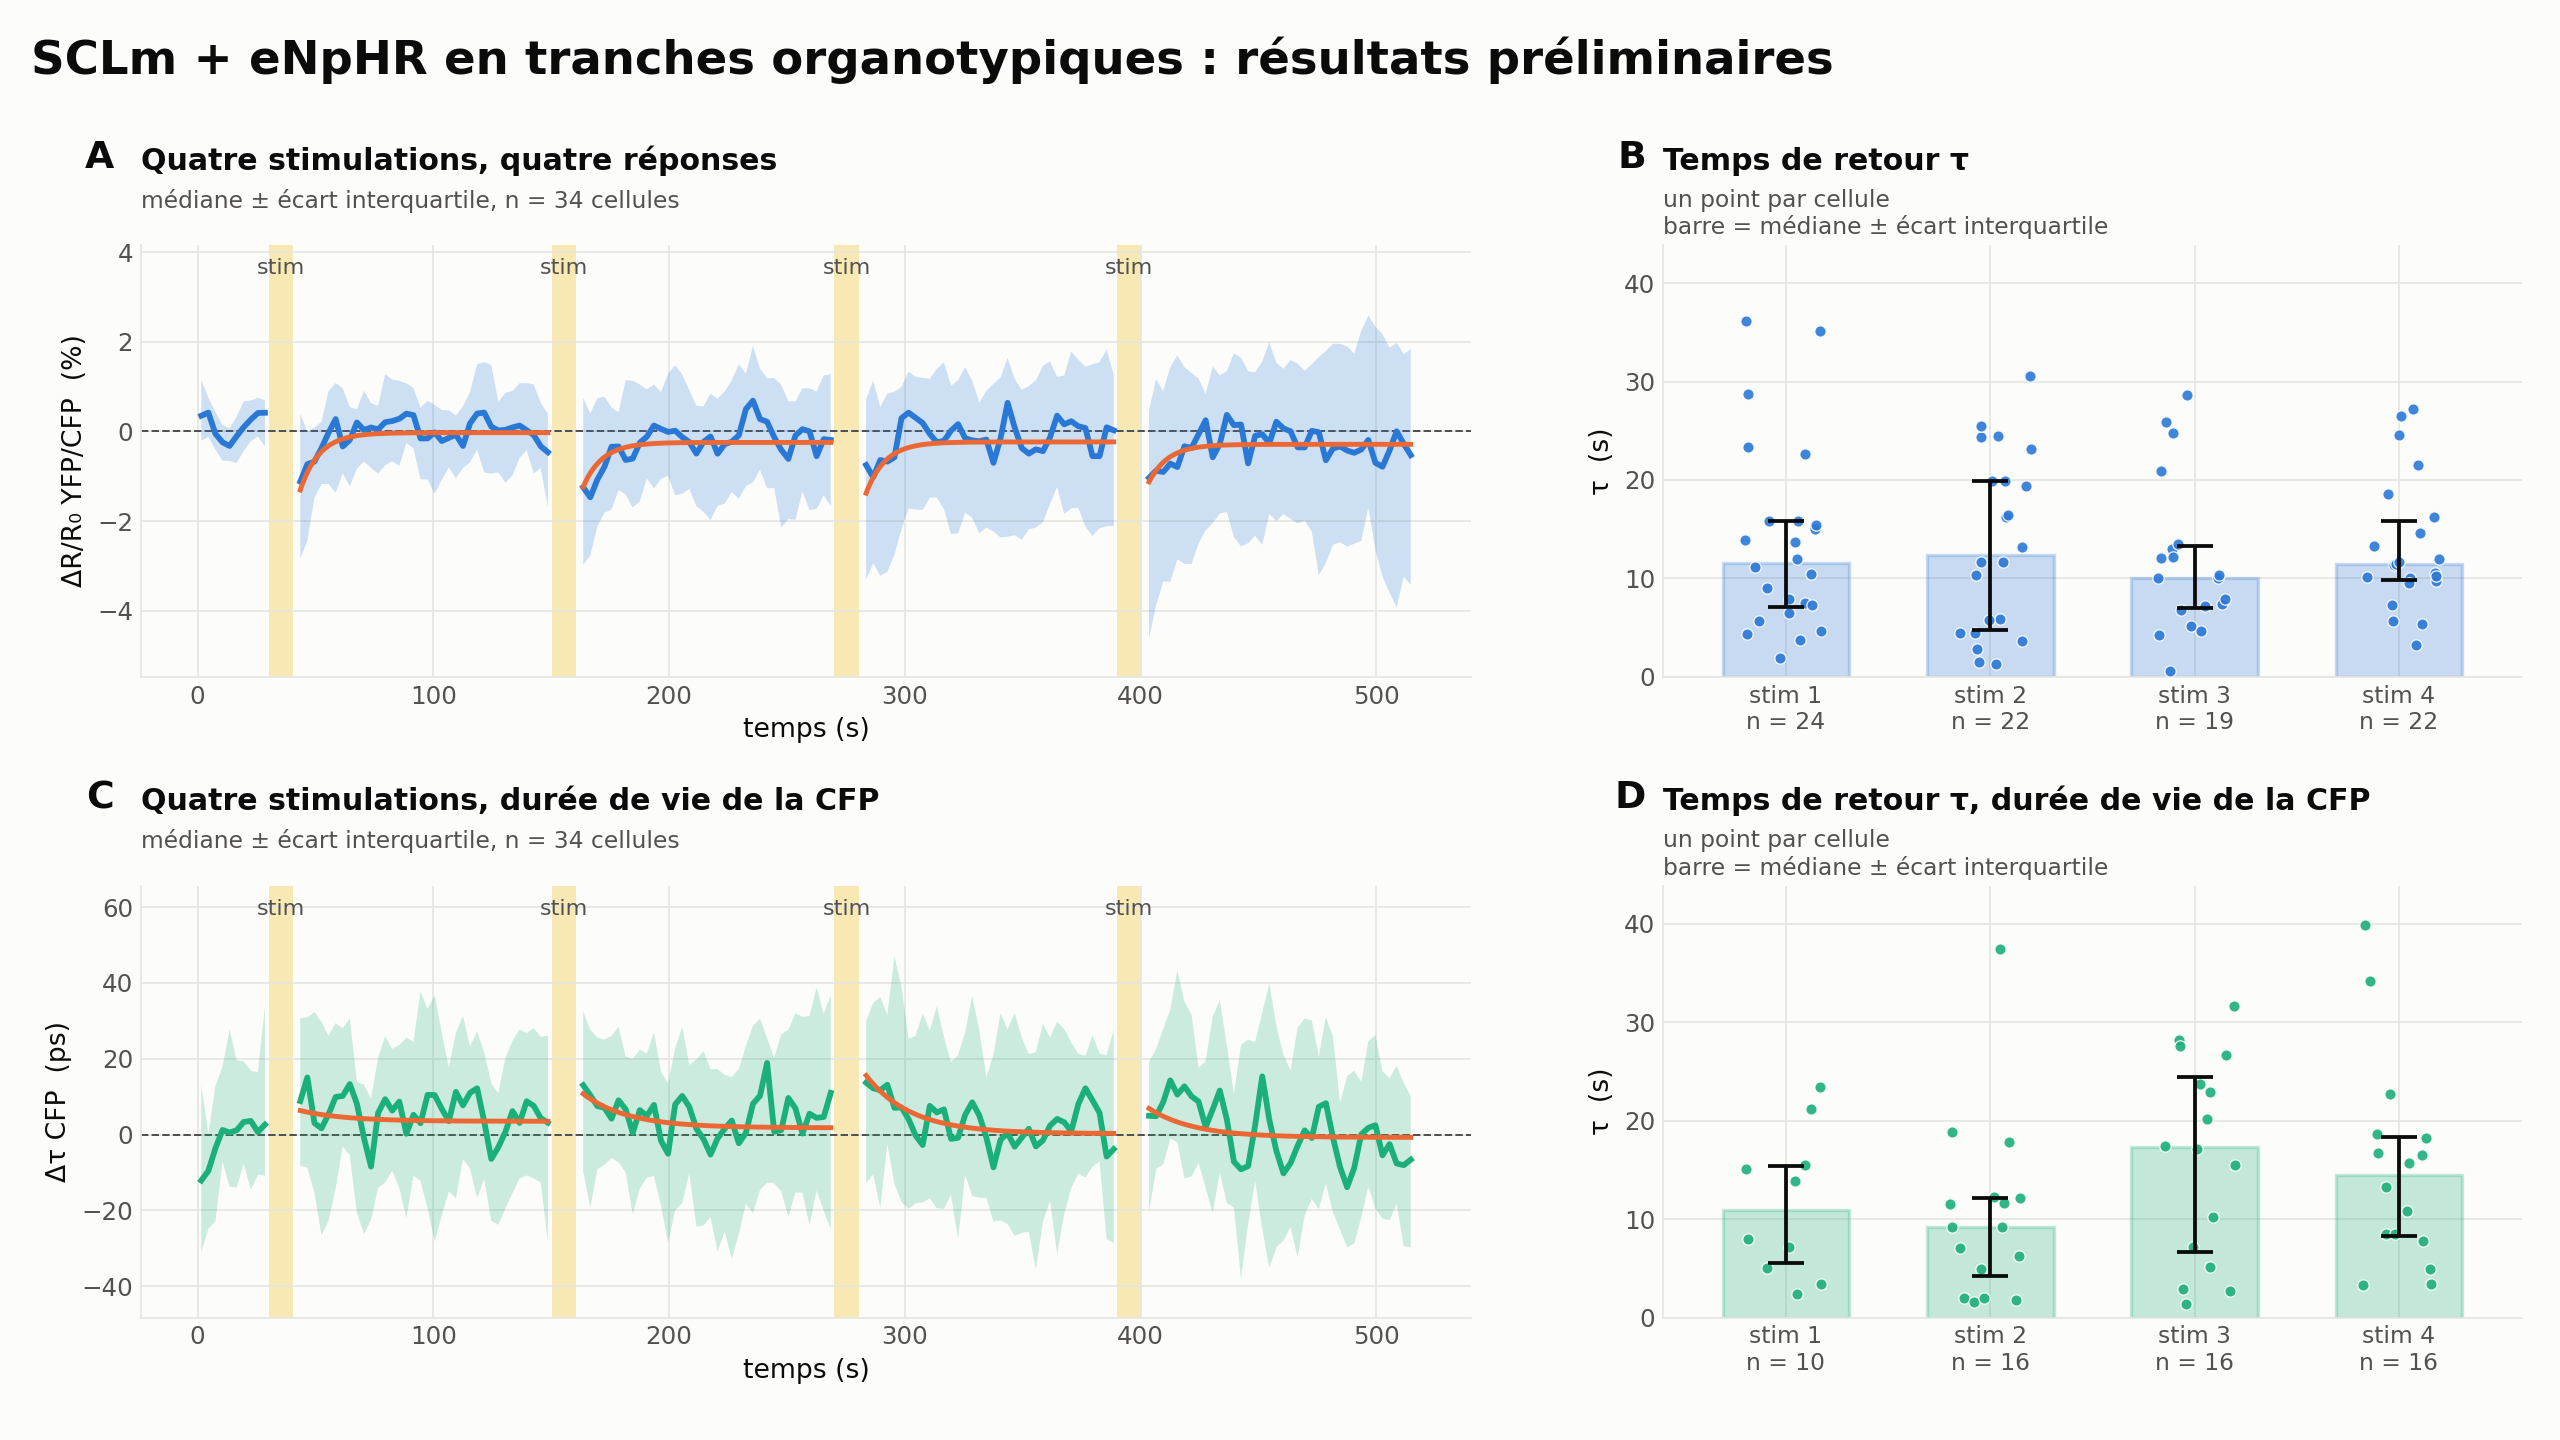
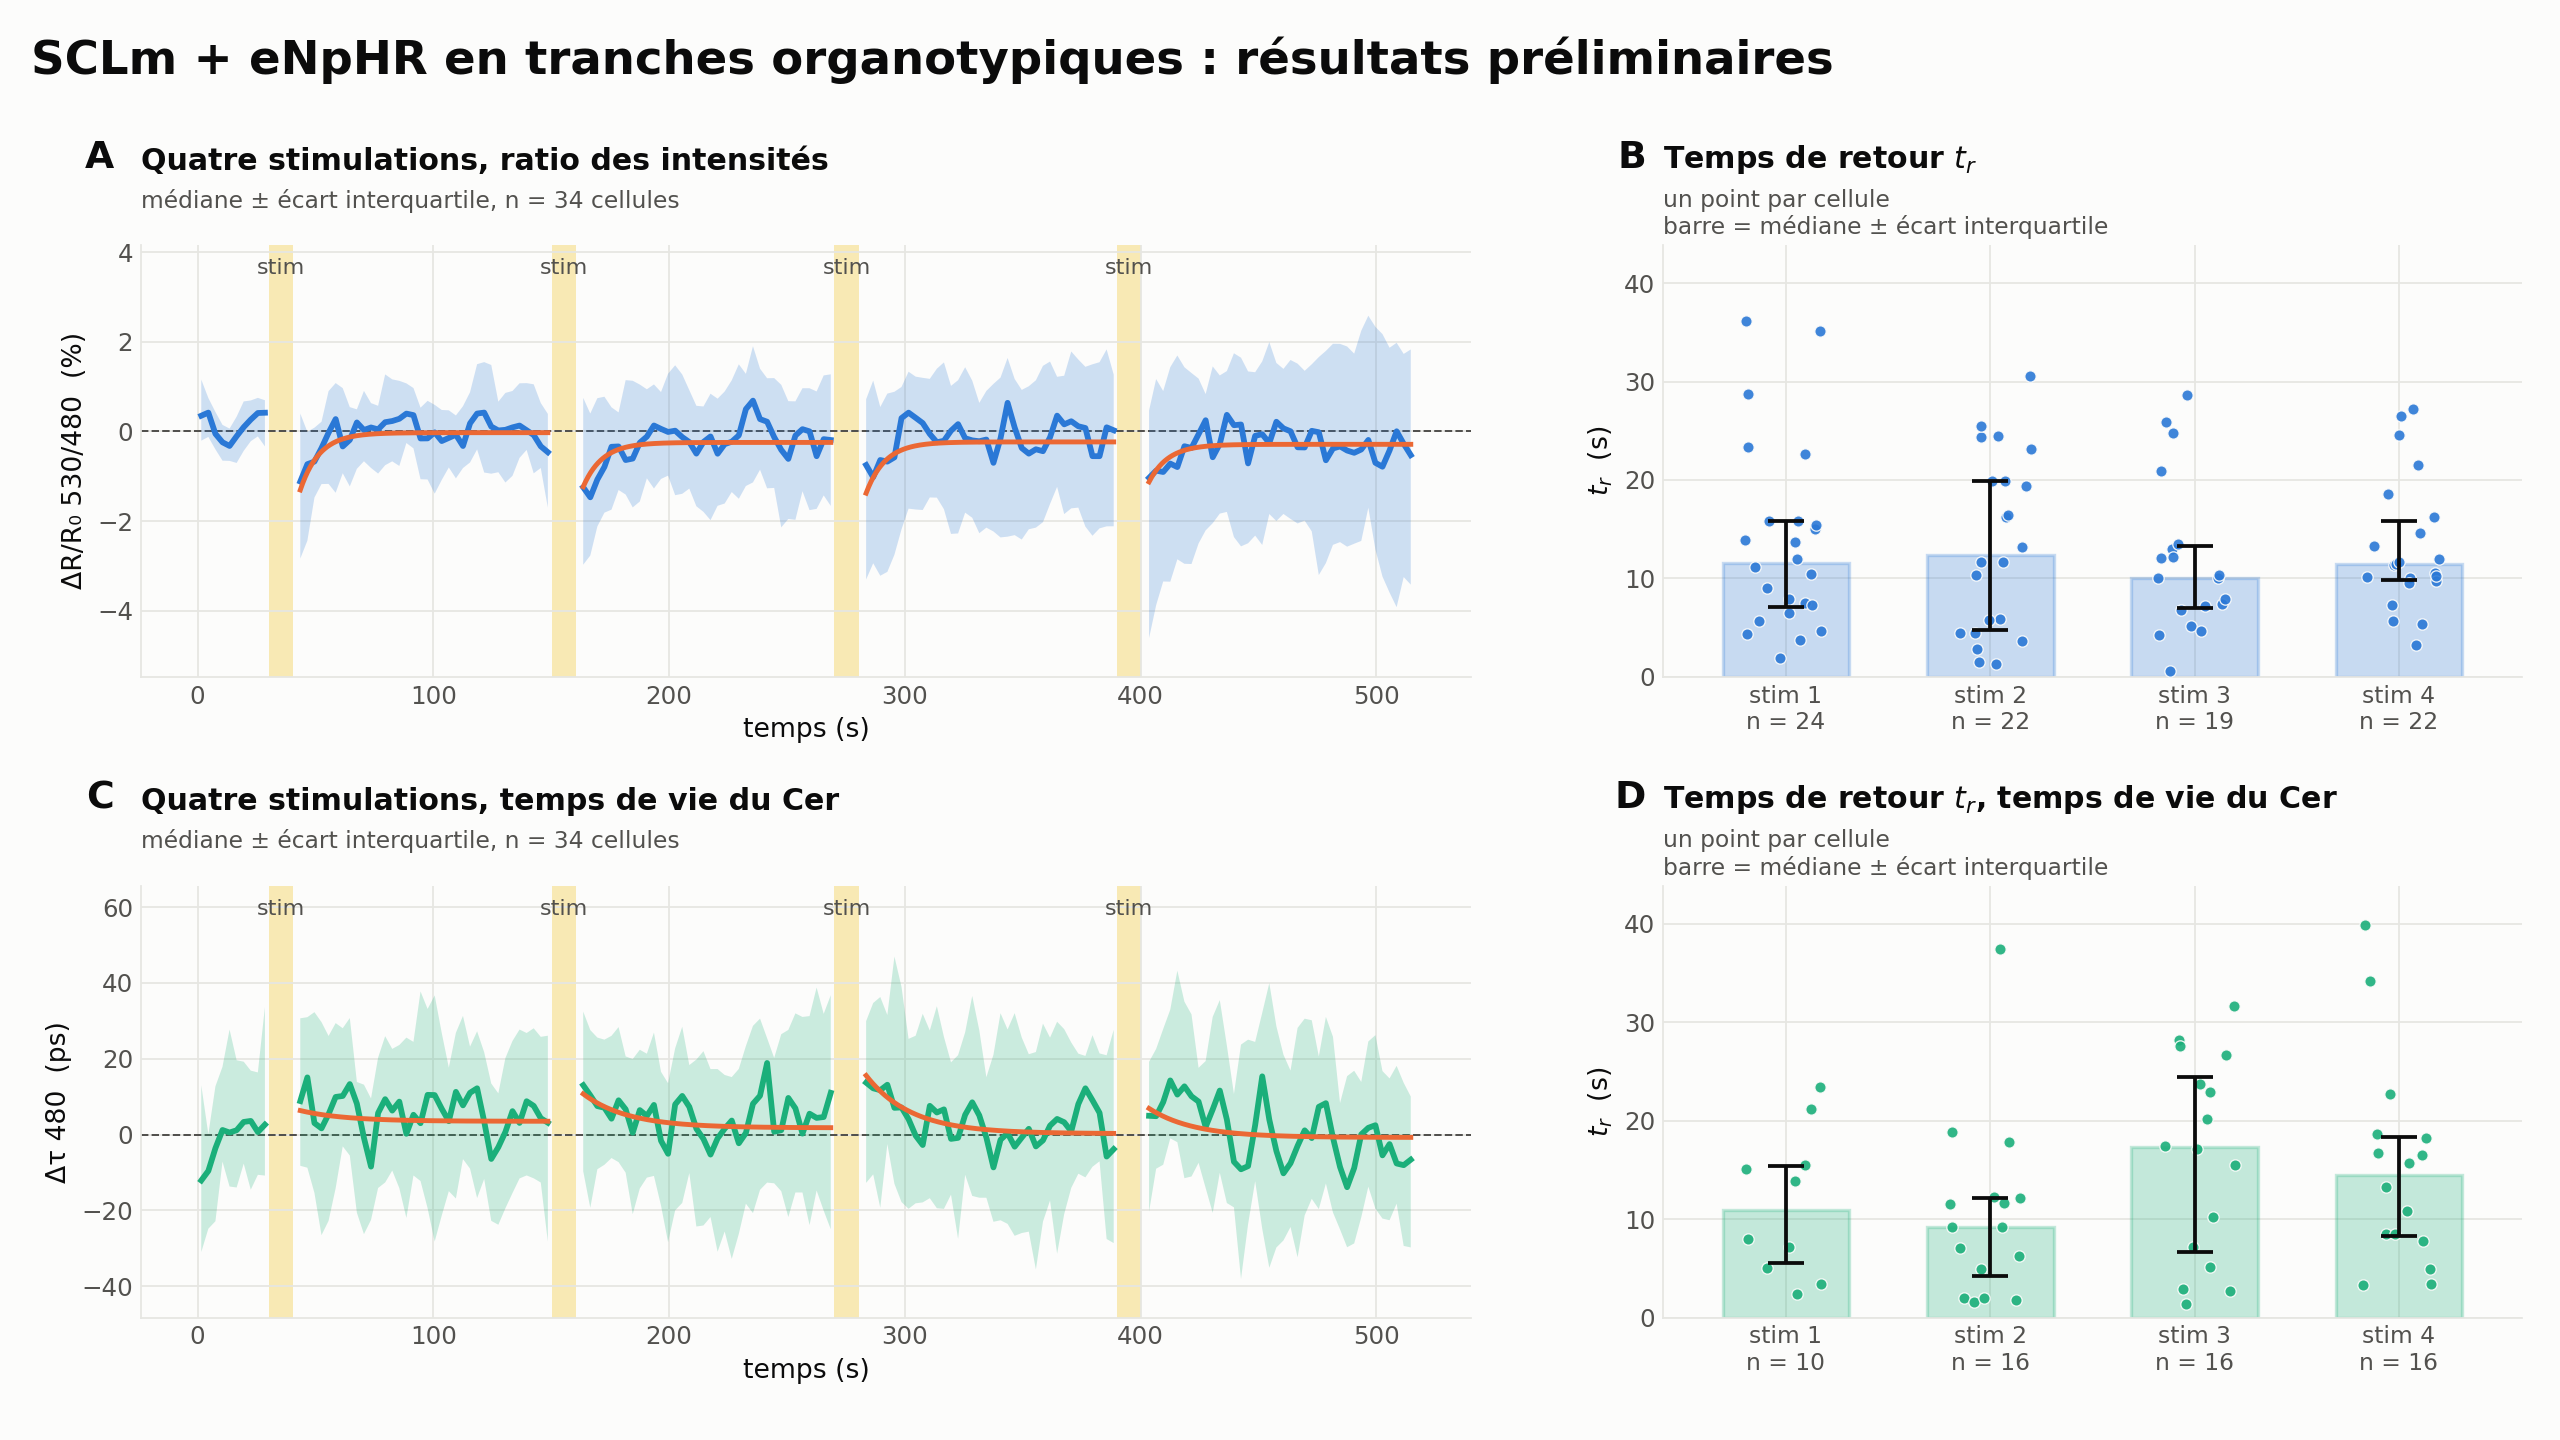
Slides de résultats : étiquettes 530/480 et t_r (2026-09-21 et 2026-10-08)
Textes FR des deux slides : l'axe du ratio devient 530/480 et celui du temps
de vie 480, au lieu de YFP/CFP. Le temps de retour au basal passe de tau à
t_r, pour ne plus le confondre avec le temps de vie de fluorescence.

Titres : « Quatre stimulations, ratio des intensités » pour le panneau du
ratio (C au 2026-09-21, A au 2026-10-08) ; au 2026-10-08, « temps de vie du
Cer » au lieu de « durée de vie de la CFP » en C et D.

Les textes EN sont inchangés ; les PNG FR et FR_dark sont régénérés.

diff --git a/Tranches/SCLM+eNpHR_2026-09-21/slide_resultats.py b/Tranches/SCLM+eNpHR_2026-09-21/slide_resultats.py
@@ -90,27 +90,27 @@ def appliquer_theme(suffixe):
 TEXT = {
     "FR": dict(
         title="SCLm + eNpHR en tranches organotypiques : résultats préliminaires",
-        takeaway="L'activation d'eNpHR fait baisser le ratio YFP/CFP — une entrée de Cl⁻ — à chaque "
+        takeaway="L'activation d'eNpHR fait baisser le ratio 530/480 — une entrée de Cl⁻ — à chaque "
                  "stimulation, avec un retour vers la base en ~{tau:.0f} s",
         A="Expression des deux constructions", A_sub="même champ, canal YFP",
         A1="800 nm : SCLm", A2="950 nm : eNpHR",
         B="Une stimulation, puis le retour", B_sub="essai 2 : ligne de base, puis stimulation 2 — "
                                                   "médiane ± écart interquartile, n = {n} cellules",
-        C="Quatre stimulations, quatre réponses",
+        C="Quatre stimulations, ratio des intensités",
         C_sub="médiane ± écart interquartile, n = {n} cellules",
-        D="Temps de retour τ", D_sub="2 essais, un point par cellule et par essai\n"
+        D="Temps de retour $t_r$", D_sub="2 essais, un point par cellule et par essai\n"
                                     "barre = médiane ± écart interquartile",
         stim_k="stim {k}",
-        time="temps (s)", y="ΔR/R₀ YFP/CFP  (%)", stim="stim", tau="τ  (s)",
+        time="temps (s)", y="ΔR/R₀ 530/480  (%)", stim="stim", tau="$t_r$  (s)",
         trial="essai {i}", tick="stim {k}\n{d} s",
-        foot=("Ratio YFP/CFP (canaux C2/C3) ; ΔR/R₀ par rapport à la ligne de base avant la première "
+        foot=("Ratio 530/480 (canaux C2/C3) ; ΔR/R₀ par rapport à la ligne de base avant la première "
               "stimulation ; courbes lissées sur 5 images. Cellules retenues : au moins 10 % plus brillantes "
               "que le neuropile qui les entoure ({n}/{N}). Images acquises pendant la stimulation masquées "
               "(fuite de la lumière de stimulation dans le canal YFP).\n"
               "A : une image par longueur d'onde, contraste propre à chaque image. B–C : essai 1, quatre "
-              "stimulations de 8 à 10 s. D : essais 1 et 2 (essai 2 : 6, 10, 15 et 20 s) ; τ ajusté par "
-              "A·exp(−t/τ) + C sur le retour de chaque cellule jusqu'à la stimulation suivante, retenu si "
-              "la réponse (10 s après − 10 s avant) dépasse 3 fois le bruit de la cellule, R² ≥ 0,3 et τ "
+              "stimulations de 8 à 10 s. D : essais 1 et 2 (essai 2 : 6, 10, 15 et 20 s) ; $t_r$ ajusté par "
+              "A·exp(−t/$t_r$) + C sur le retour de chaque cellule jusqu'à la stimulation suivante, retenu si "
+              "la réponse (10 s après − 10 s avant) dépasse 3 fois le bruit de la cellule, R² ≥ 0,3 et $t_r$ "
               "plus court que la fenêtre d'observation (42 à 53 s)."),
         scale="50 µm"),
     "EN": dict(

diff --git a/Tranches/SCLM+eNpHR_2026-10-08/présentation/slide_resultats.py b/Tranches/SCLM+eNpHR_2026-10-08/présentation/slide_resultats.py
@@ -68,16 +68,16 @@ from step7_retour import BORNES_TAU, MESURABLE_TAU  # noqa: E402
 TEXTES = {
     "FR": dict(
         title="SCLm + eNpHR en tranches organotypiques : résultats préliminaires",
-        A="Quatre stimulations, quatre réponses",
+        A="Quatre stimulations, ratio des intensités",
         A_sub="médiane ± écart interquartile, n = {n} cellules",
-        B="Temps de retour τ",
+        B="Temps de retour $t_r$",
         B_sub="un point par cellule\nbarre = médiane ± écart interquartile",
-        C="Quatre stimulations, durée de vie de la CFP",
+        C="Quatre stimulations, temps de vie du Cer",
         C_sub="médiane ± écart interquartile, n = {n} cellules",
-        D="Temps de retour τ, durée de vie de la CFP",
+        D="Temps de retour $t_r$, temps de vie du Cer",
         D_sub="un point par cellule\nbarre = médiane ± écart interquartile",
-        time="temps (s)", y_ratio="ΔR/R₀ YFP/CFP  (%)", y_tau="Δτ CFP  (ps)", stim="stim",
-        tau="τ  (s)", tick="stim {k}\nn = {n}"),
+        time="temps (s)", y_ratio="ΔR/R₀ 530/480  (%)", y_tau="Δτ 480  (ps)", stim="stim",
+        tau="$t_r$  (s)", tick="stim {k}\nn = {n}"),
     "EN": dict(
         title="SCLm + eNpHR in organotypic slices: preliminary results",
         A="Four stimulations, four responses",
